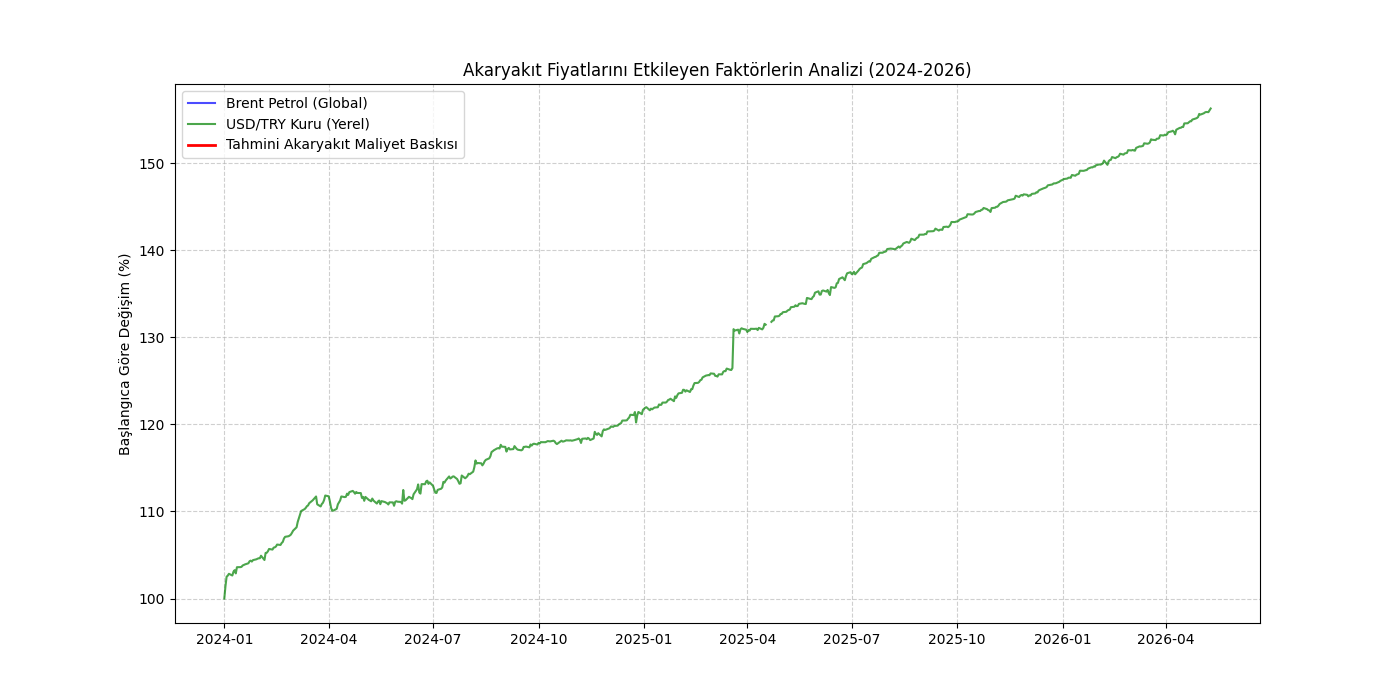
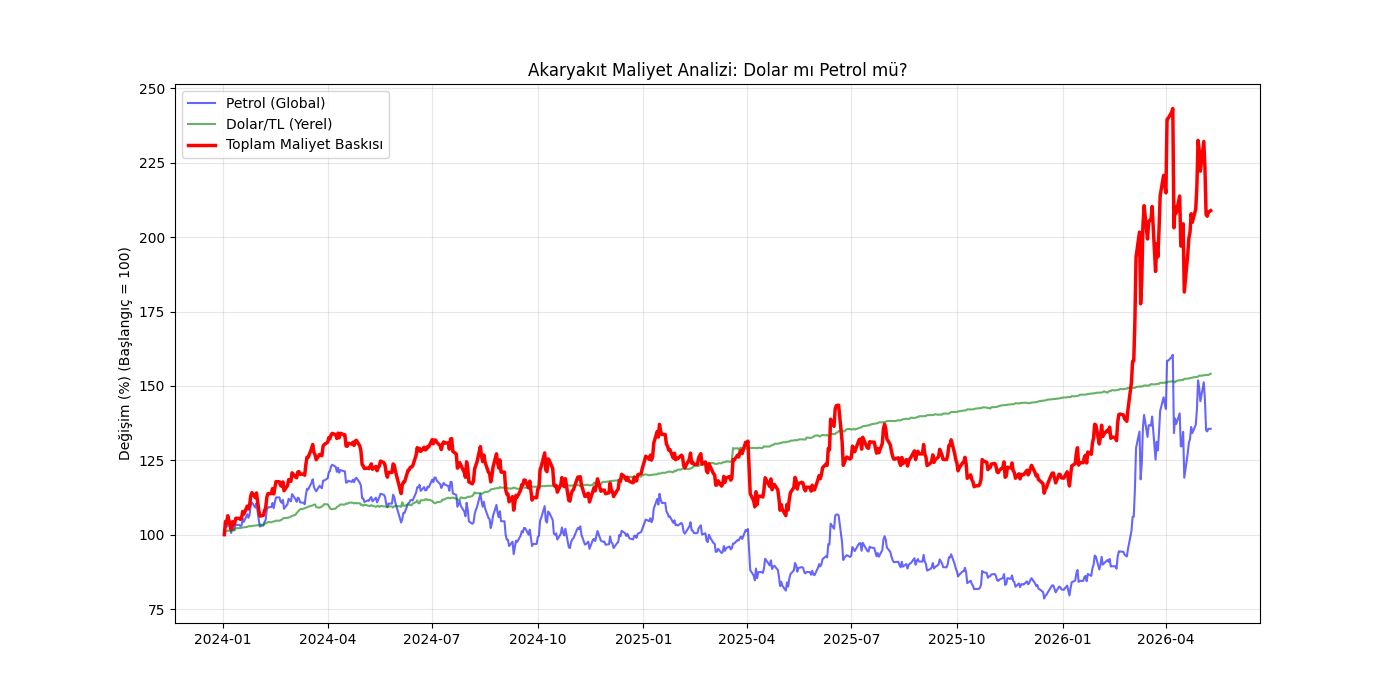
Add files via upload

diff --git a/fuel_price_analysis.py b/fuel_price_analysis.py
@@ -2,35 +2,38 @@ import yfinance as yf
 import pandas as pd
 import matplotlib.pyplot as plt
 
-# Veri sembolleri: Brent Petrol (BZ=F) ve Dolar/TL (USDTRY=X)
-symbols = ['BZ=F', 'USDTRY=X']
+# Daha kararlı çalışan tickerlar: CL=F (Petrol) ve USDTRY=X (Dolar)
+symbols = ['CL=F', 'USDTRY=X']
 
-print("Petrol ve Kur verileri çekiliyor...")
+print("Veriler çekiliyor ve temizleniyor...")
 
-# 2024 başından itibaren verileri alalım
-data = yf.download(symbols, start="2024-01-01")['Close']
+# Verileri çekelim
+raw_data = yf.download(symbols, start="2024-01-01")['Close']
 
-# Sütunları isimlendirelim
-data.columns = ['Brent_Petrol', 'USD_TRY']
+# EKSİK VERİ KONTROLÜ: Boş satırları bir önceki günle doldur veya sil
+data = raw_data.ffill().dropna() 
 
-# Basit bir 'Yerel Maliyet Endeksi' oluşturalım (Brent * Dolar)
-# Bu, pompadaki fiyat artışının ana itici gücüdür.
-data['Maliyet_Endeksi'] = data['Brent_Petrol'] * data['USD_TRY']
+# Sütun isimlerini garantiye alalım
+# yfinance alfabetik getirir: CL=F (Petrol), USDTRY=X (Dolar)
+data.columns = ['Petrol', 'Dolar']
 
-# Verileri normalize edelim (Grafikte yan yana görebilmek için)
+# Yerel Maliyet Endeksi
+data['Maliyet_Endeksi'] = data['Petrol'] * data['Dolar']
+
+# Normalizasyon: İlk GEÇERLİ güne bölüyoruz
 normalized = (data / data.iloc[0]) * 100
 
 # Görselleştirme
 plt.figure(figsize=(14, 7))
-plt.plot(normalized['Brent_Petrol'], label='Brent Petrol (Global)', color='blue', alpha=0.7)
-plt.plot(normalized['USD_TRY'], label='USD/TRY Kuru (Yerel)', color='green', alpha=0.7)
-plt.plot(normalized['Maliyet_Endeksi'], label='Tahmini Akaryakıt Maliyet Baskısı', color='red', linewidth=2)
+plt.plot(normalized['Petrol'], label='Petrol (Global)', color='blue', alpha=0.6)
+plt.plot(normalized['Dolar'], label='Dolar/TL (Yerel)', color='green', alpha=0.6)
+plt.plot(normalized['Maliyet_Endeksi'], label='Toplam Maliyet Baskısı', color='red', linewidth=2.5)
 
-plt.title('Akaryakıt Fiyatlarını Etkileyen Faktörlerin Analizi (2024-2026)')
-plt.ylabel('Başlangıca Göre Değişim (%)')
+plt.title('Akaryakıt Maliyet Analizi: Dolar mı Petrol mü?')
+plt.ylabel('Değişim (%) (Başlangıç = 100)')
 plt.legend()
-plt.grid(True, linestyle='--', alpha=0.6)
+plt.grid(True, alpha=0.3)
 
 # Kaydet
 plt.savefig('fuel_analysis.png')
-print("Analiz tamamlandı! 'fuel_analysis.png' oluşturuldu.")
+print("İşlem tamam! Şimdi 'fuel_analysis.png' dosyasını tekrar kontrol et.")
